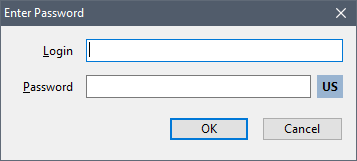
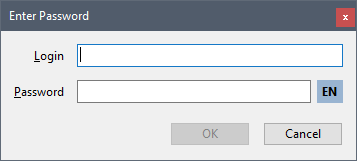
Changed locale reading method in Windows

diff --git a/README.md b/README.md
@@ -44,7 +44,9 @@ Folder `demo` belong to the demo project that illustrates the use of this proced
 
 Dependencies
 ------------
-Nothing special, just the default LCL package. Tested on Lazarus 2.2.4 and 2.2.6, should work on earlier (more or less modern) and later versions.
+It doesn't require anything special to compile the code other than the standard LCL package. Tested on Lazarus 2.2.4 and 2.2.6, should work on earlier (more or less modern) and later versions.
+
+On Linux, it requires the X11 subsystem to run.
 
 Demo
 ----
@@ -68,7 +70,7 @@ I have not tested the class in a console application. On GNU/Linux, the X event 
 
 On Windows, creating multiple instances of the `TKeyboardLayoutIndicator` class is pointless due to a system hook using a global variable containing an instance of this class. If you need more than one indicator in your application, please think of something to hold a list of them and use the single `OnUpdateIndicator` event handler. Or modify the `TKeyboardLayoutIndicator` class to create a list of event handlers instead of a single `OnUpdateIndicator`.
 
-On Windows, the class reads two-letter locale names from the system registry. On GNU/Linux, it takes the full language name (e.g. 'english') and returns the first two letters from it. Thus, on many layouts the indicator will return different names (see the screenshots above: 'EN' on ALT Linux and 'US' on Windows!). If someone knows how to do it more elegant way, please tell me.
+On Windows, the class reads the two-letter (or three-letter in some exotic cases) locale name abbreviation from the OS using `GetLocaleInfo` function according to the ISO-639 standard. On GNU/Linux, it takes the full language name (e.g. 'english') and returns the first two letters from it. Thus, on some layouts the indicator will return different names. If someone knows how to do it more elegant way, please tell me.
 
 Author
 ------
